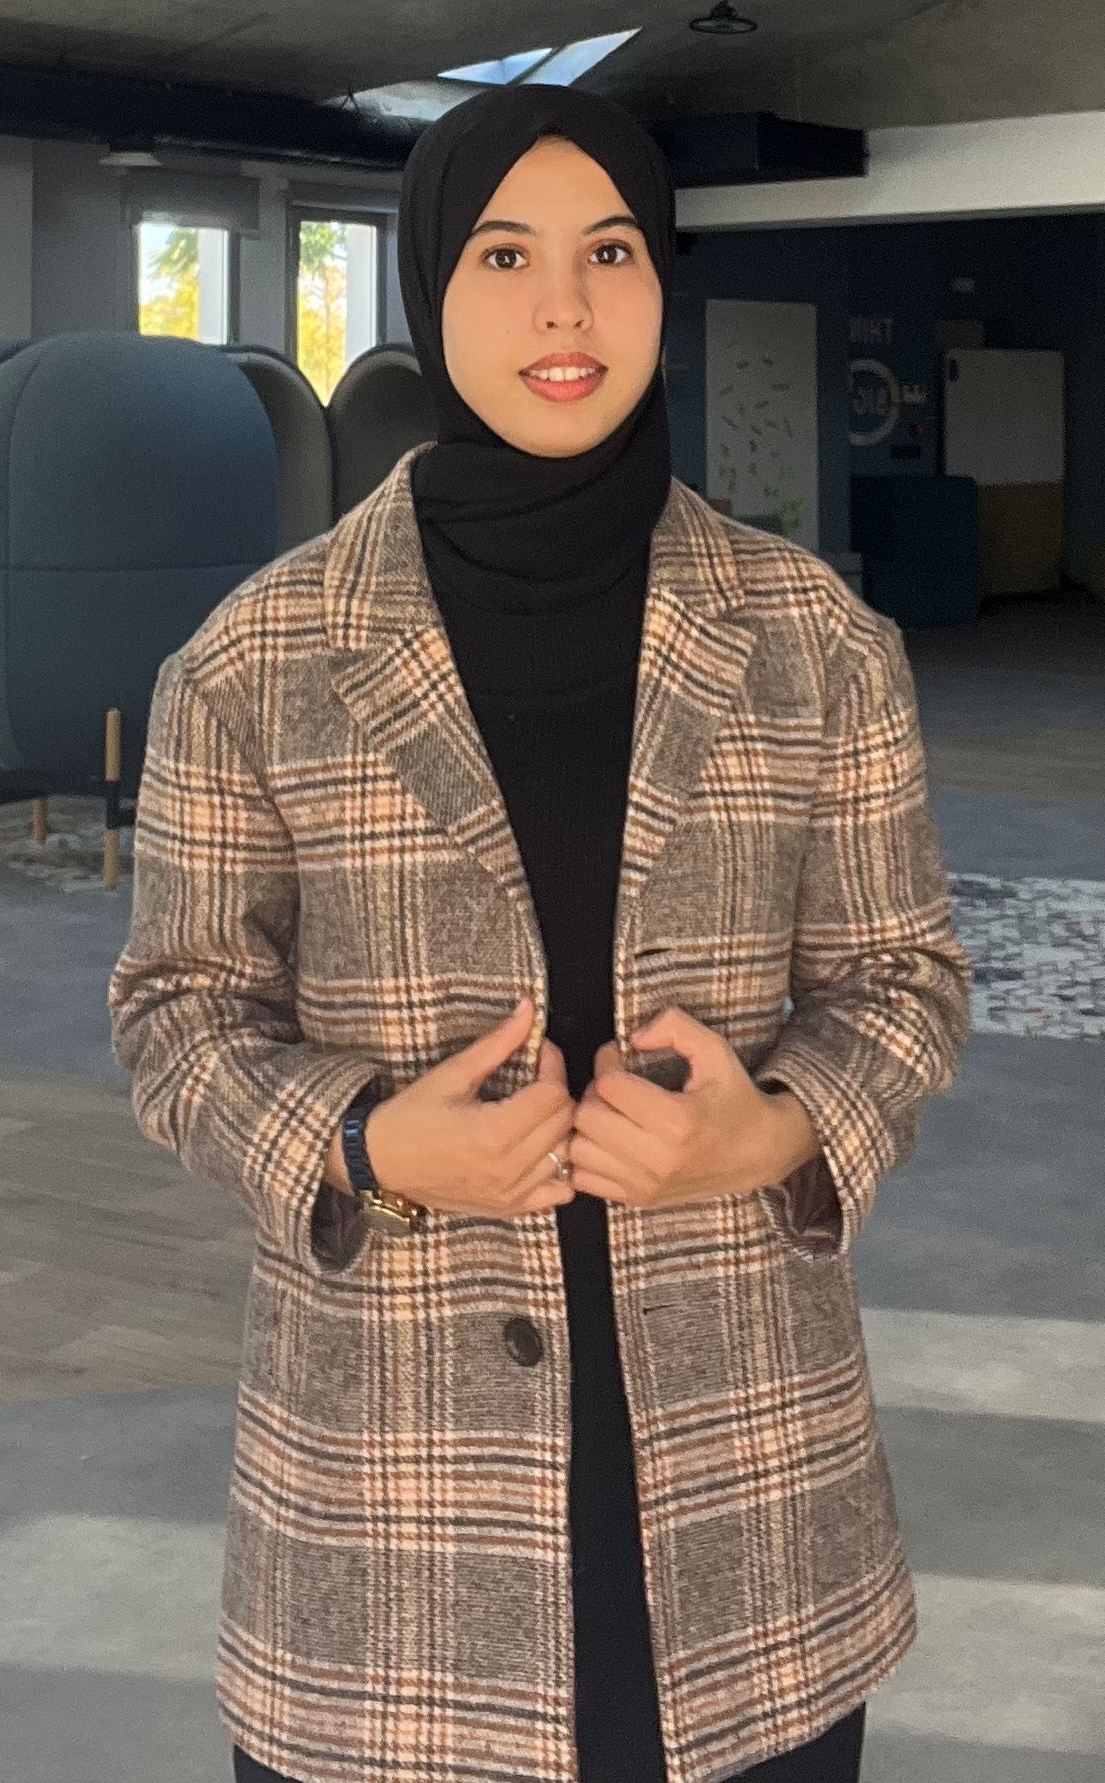
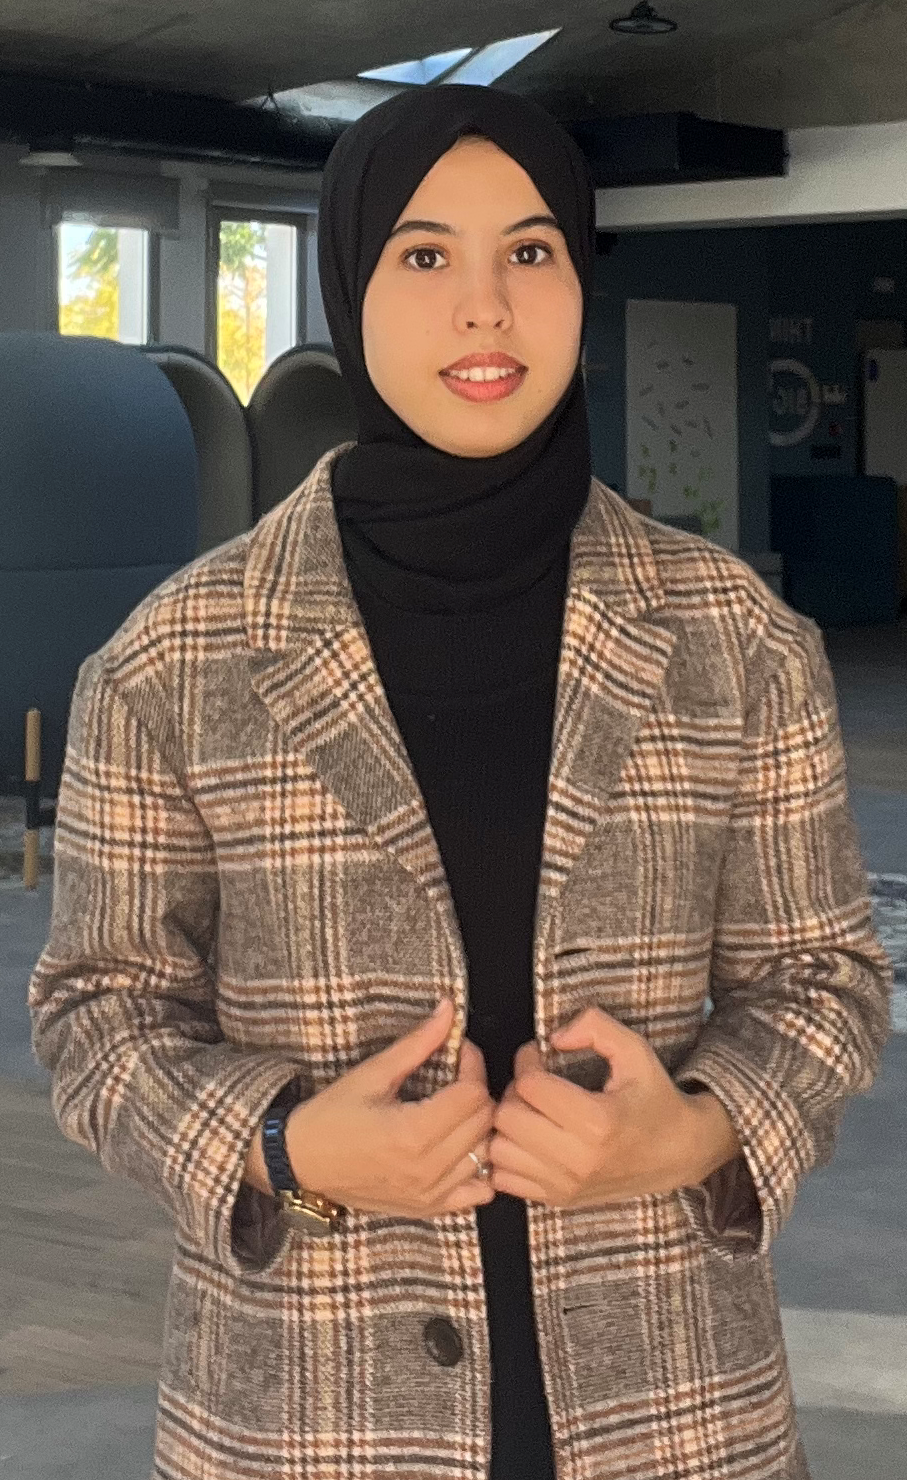
version finall

diff --git a/assets/css/styles.css b/assets/css/styles.css
@@ -281,7 +281,7 @@ img {
 .home__prefil{
   width: 320px;
   justify-self: center;
-  border-radius: 90%;
+  /* border-radius: 90%; */
 }
 
 .home__shadow, .home__info, .home__social, .home__cv{
@@ -561,9 +561,6 @@ img {
   font-size: var(--small-font-size);
 }
 
-.projects__img{
-  border-radius: 1.5rem;
-}
 
 .projects__button{
   display: grid;
@@ -1461,7 +1458,7 @@ img {
   }
   
   .home__prefil{
-    width: 600px;
+    /* width: 600px; */
   }
   
   .home__image .blob-animate{
@@ -1605,7 +1602,7 @@ img {
   
   .projects__img{
     width: 100%;
-    border-radius: 2rem;
+    /* border-radius: 2rem; */
   }
   
   .projects__button{

diff --git a/index.html b/index.html
@@ -61,7 +61,7 @@
                </div>
                <div class="home__image">
                   <div class="blob-animate"></div>
-                  <img src="assets/img/AQW.png" alt="" class="home__prefil">
+                  <img src="assets/img/ImageOME.png" alt="" class="home__prefil">
                </div>
                <div class="home__info">
                   <h3 class="home__split">Creative</h3>
